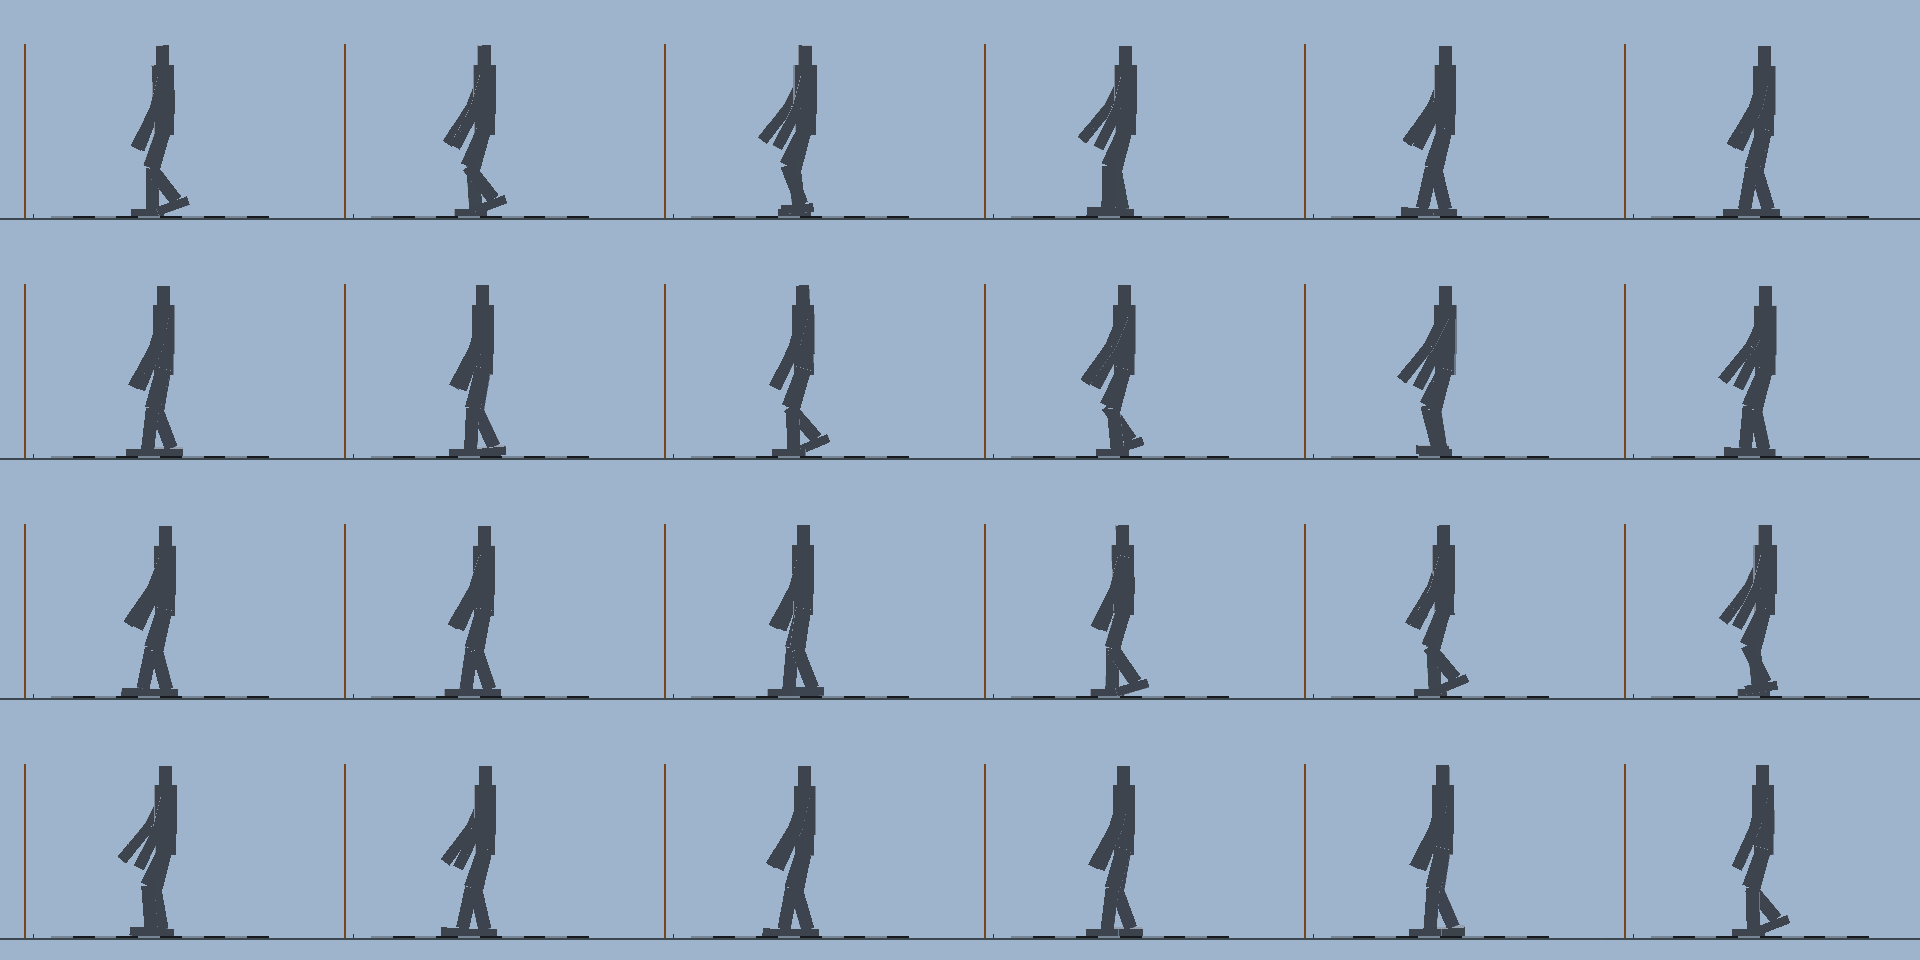
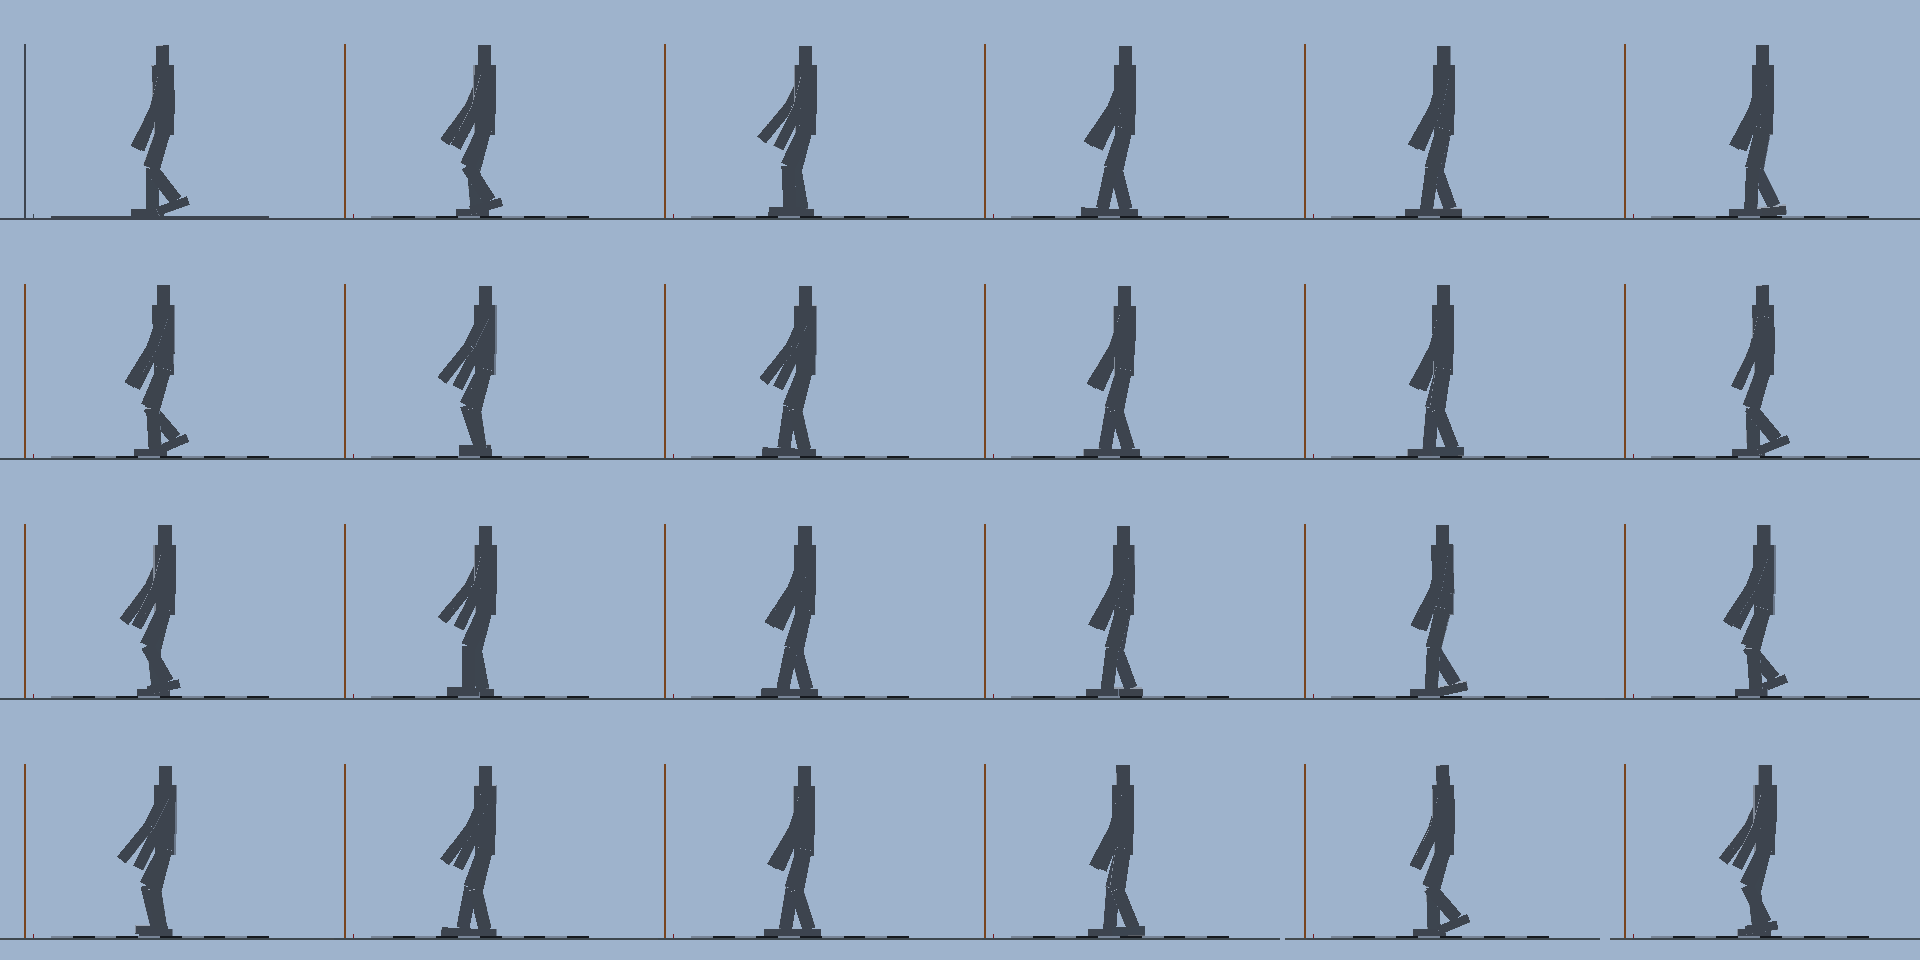
Evidence: walk strips over 2.2 strides (T-005, C7)

diff --git a/kaiju/evidence/T-005/EVIDENCE.md b/kaiju/evidence/T-005/EVIDENCE.md
@@ -21,6 +21,7 @@ All commands run from the project root (`kaiju/`); `unity` is the Unity CLI (add
 | `metrics/M-001_without_curve/` | same without `curve` (information only: shows the values when the capture that ends in a fall is left out; tool exit 1) | T-002 0f57e25 |
 | `metrics/M-002/`, `M-002.stdout.txt` | `python Tools/Metrics/metrics.py m002 --out <evidence>/metrics/M-002 --label T-005 <gait>/{walk_fr010,walk_fr020,walk_fr030,start,stop,estop,turn90_inplace,curve,stomp}.gait.jsonl` | T-002 0f57e25 |
 | `metrics/M-002_without_curve/` | m002 on walk_fr010/020/030, start, stop, estop, turn90_inplace, stomp, walk_scn, shove_030 (information only) | T-002 0f57e25 |
+| `strips/walk_fr010/020/030.*` (re-captured so 24 tiles at 0.7 s cover 16.8 s = 2.2 strides; same motion, only the sampling interval of the strip changed) | scenario entry point with `-scenarios walk_fr010,walk_fr020,walk_fr030 -strips -nophys -out <tmp>`, strips copied in | b77be9a |
 | `plots/<capture>.com_vs_feet.png` | `python Tools/T005/plots.py evidence/T-005 walk_fr020 start stop turn90_inplace shove_030` | 955a865 |
 | `tests/unity_editmode.xml`, `tests/unity_playmode.xml` | `unity test . --mode EditMode -o ...`, `unity test . --mode PlayMode -o ...` | 955a865 |
 | `tests/*.trx` | `dotnet test DotnetTests/<Physics.Body.Tests|Control.Tests|Units.Mech.Tests>/<name>.csproj --logger trx` | 955a865 |
